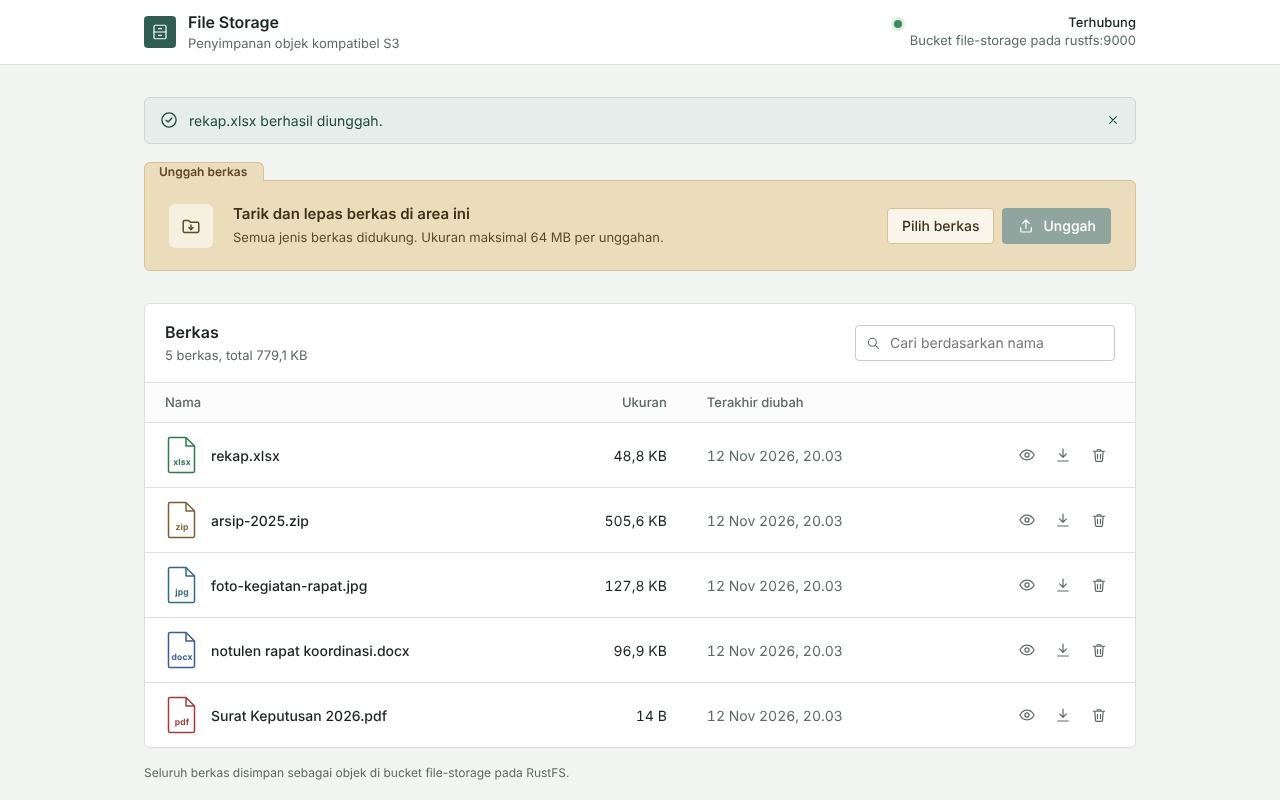
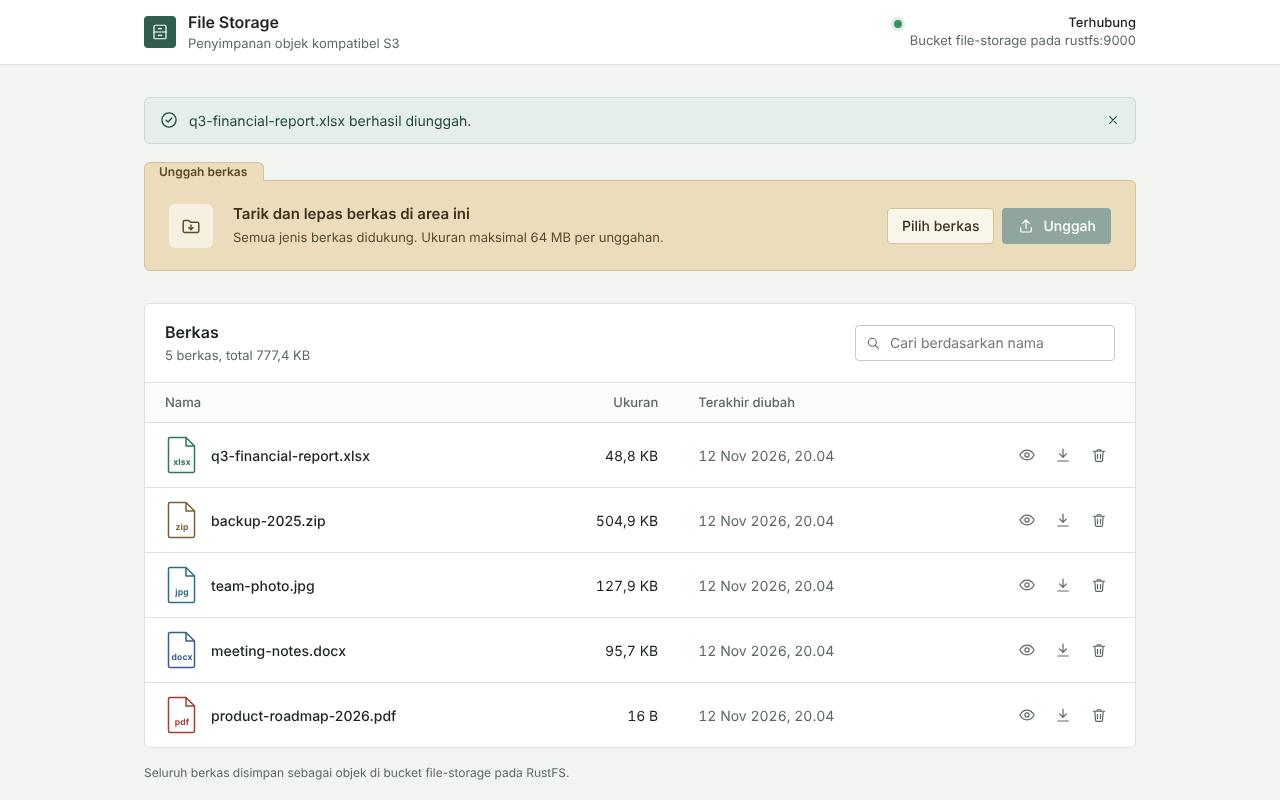
Use file-storage naming across code, styles, compose and tests

diff --git a/web/src/styles.css b/web/src/styles.css
@@ -1,4 +1,4 @@
-/* File Storage: manila-folder upload, archive-green ink, one quiet table. */
+/* File Storage UI: one tabbed upload panel, one quiet file table. */
 :root {
   --page: #F2F4F2;
   --surface: #FFFFFF;
@@ -9,9 +9,9 @@
   --accent: #2F5D50;
   --accent-hover: #244A40;
   --accent-soft: #E6EEEB;
-  --manila: #EBDDBB;
-  --manila-edge: #D6C394;
-  --manila-ink: #5A4A26;
+  --upload-bg: #EBDDBB;
+  --upload-border: #D6C394;
+  --upload-ink: #5A4A26;
   --danger: #A63D32;
   --danger-soft: #F8EBE9;
   --radius-s: 4px;
@@ -58,31 +58,31 @@ main.wrap { padding-top: 32px; padding-bottom: 64px; }
 .notice.ok { background: var(--accent-soft); border-color: #C9DAD4; color: var(--accent-hover); }
 .notice.err { background: var(--danger-soft); border-color: #EBCBC6; color: var(--danger); }
 
-/* Upload folder: the one memorable element */
-.folder { position: relative; margin-top: 18px; margin-bottom: 32px; }
-.folder-tab {
+/* Upload panel: the one prominent element */
+.upload-panel { position: relative; margin-top: 18px; margin-bottom: 32px; }
+.upload-tab {
   position: absolute; top: -18px; left: 0; height: 19px; padding: 0 16px 0 14px;
-  background: var(--manila); border: 1px solid var(--manila-edge); border-bottom: 0;
+  background: var(--upload-bg); border: 1px solid var(--upload-border); border-bottom: 0;
   border-radius: var(--radius-m) var(--radius-m) 0 0;
-  font-size: 12px; font-weight: 600; color: var(--manila-ink); line-height: 18px;
+  font-size: 12px; font-weight: 600; color: var(--upload-ink); line-height: 18px;
 }
-.drop {
+.dropzone {
   display: flex; align-items: center; gap: 20px; flex-wrap: wrap;
-  background: var(--manila); border: 1px solid var(--manila-edge);
+  background: var(--upload-bg); border: 1px solid var(--upload-border);
   border-radius: 0 var(--radius-m) var(--radius-m) var(--radius-m);
   padding: 22px 24px;
   transition: background-color .15s, border-color .15s;
 }
-.drop.is-over { background: #E3D2A8; border-color: var(--manila-ink); }
-.drop-icon { width: 44px; height: 44px; border-radius: var(--radius-m); background: rgba(255,255,255,.55); display: grid; place-items: center; color: var(--manila-ink); }
-.drop-icon .icon { width: 22px; height: 22px; }
-.drop-text { flex: 1 1 260px; color: var(--manila-ink); }
-.drop-text strong { display: block; font-size: 15px; font-weight: 600; color: #3E331A; }
-.drop-text span { font-size: 13px; }
+.dropzone.is-over { background: #E3D2A8; border-color: var(--upload-ink); }
+.dropzone-icon { width: 44px; height: 44px; border-radius: var(--radius-m); background: rgba(255,255,255,.55); display: grid; place-items: center; color: var(--upload-ink); }
+.dropzone-icon .icon { width: 22px; height: 22px; }
+.dropzone-text { flex: 1 1 260px; color: var(--upload-ink); }
+.dropzone-text strong { display: block; font-size: 15px; font-weight: 600; color: #3E331A; }
+.dropzone-text span { font-size: 13px; }
 .progress { height: 4px; margin-top: 10px; border-radius: 2px; background: rgba(90,74,38,.18); overflow: hidden; max-width: 420px; }
 .progress[hidden] { display: none; }
 .progress-bar { height: 100%; width: 0; background: var(--accent); transition: width .15s linear; }
-.drop-actions { display: flex; gap: 8px; align-items: center; }
+.dropzone-actions { display: flex; gap: 8px; align-items: center; }
 .sr-only { position: absolute; width: 1px; height: 1px; overflow: hidden; clip: rect(0 0 0 0); white-space: nowrap; }
 
 /* Buttons */
@@ -95,7 +95,7 @@ main.wrap { padding-top: 32px; padding-bottom: 64px; }
 .btn-primary { background: var(--accent); color: #fff; }
 .btn-primary:hover { background: var(--accent-hover); }
 .btn-primary:disabled { background: #8FA59E; cursor: not-allowed; }
-.btn-plain { background: rgba(255,255,255,.7); border-color: var(--manila-edge); color: #3E331A; }
+.btn-plain { background: rgba(255,255,255,.7); border-color: var(--upload-border); color: #3E331A; }
 .btn-plain:hover { background: #fff; }
 .btn-ghost { background: var(--surface); border-color: var(--line-strong); color: var(--ink); }
 .btn-ghost:hover { background: var(--page); }
@@ -103,10 +103,10 @@ main.wrap { padding-top: 32px; padding-bottom: 64px; }
 .btn-danger:hover { background: #8C3229; }
 
 /* Documents */
-.docs { background: var(--surface); border: 1px solid var(--line); border-radius: var(--radius-m); }
-.docs-head { display: flex; align-items: center; justify-content: space-between; gap: 16px; flex-wrap: wrap; padding: 16px 20px; border-bottom: 1px solid var(--line); }
-.docs-head h2 { margin: 0; font-size: 16px; font-weight: 600; }
-.docs-head p { margin: 2px 0 0; font-size: 13px; color: var(--muted); }
+.file-list { background: var(--surface); border: 1px solid var(--line); border-radius: var(--radius-m); }
+.file-list-head { display: flex; align-items: center; justify-content: space-between; gap: 16px; flex-wrap: wrap; padding: 16px 20px; border-bottom: 1px solid var(--line); }
+.file-list-head h2 { margin: 0; font-size: 16px; font-weight: 600; }
+.file-list-head p { margin: 2px 0 0; font-size: 13px; color: var(--muted); }
 .search { position: relative; }
 .search .icon { position: absolute; left: 10px; top: 50%; transform: translateY(-50%); width: 16px; height: 16px; color: var(--muted); }
 .search input {
@@ -166,7 +166,7 @@ footer { font-size: 12px; color: var(--muted); margin-top: 16px; }
   .wrap { padding: 0 16px; }
   .conn { display: none; }
   .search, .search input { width: 100%; }
-  .docs-head > div:first-child { width: 100%; }
+  .file-list-head > div:first-child { width: 100%; }
   .col-when, .when { display: none; }
   .name small { display: block; }
   th, td { padding-left: 14px; padding-right: 14px; }

diff --git a/web/src/ui/fileTable.ts b/web/src/ui/fileTable.ts
@@ -1,7 +1,7 @@
 import { fileUrl } from "../api";
 import { h } from "../dom";
 import { extensionOf, formatDate, formatSize, kindOf } from "../format";
-import { docSheet, icon } from "../icons";
+import { fileSheet, icon } from "../icons";
 import type { FileList, StoredFile } from "../types";
 
 interface FileTableOptions {
@@ -25,12 +25,12 @@ export function createFileTable(opts: FileTableOptions): FileTable {
     icon("search"),
     searchInput,
   );
-  const body = h("div", { class: "docs-body" });
+  const body = h("div", { class: "file-list-body" });
 
   const el = h(
     "section",
-    { class: "docs", "aria-labelledby": "docs-title" },
-    h("div", { class: "docs-head" }, h("div", {}, h("h2", { id: "docs-title" }, "Berkas"), summary), search),
+    { class: "file-list", "aria-labelledby": "file-list-title" },
+    h("div", { class: "file-list-head" }, h("div", {}, h("h2", { id: "file-list-title" }, "Berkas"), summary), search),
     body,
   );
 
@@ -49,7 +49,7 @@ export function createFileTable(opts: FileTableOptions): FileTable {
   };
   searchInput.addEventListener("input", applySearch);
 
-  const emptyState = (iconName: "cabinet" | "search" | "alert", heading: string, text: string, ...extra: Node[]) =>
+  const emptyState = (iconName: "storage" | "search" | "alert", heading: string, text: string, ...extra: Node[]) =>
     h("div", { class: "empty" }, icon(iconName), h("strong", {}, heading), h("p", {}, text), ...extra);
 
   const row = (f: StoredFile) => {
@@ -66,7 +66,7 @@ export function createFileTable(opts: FileTableOptions): FileTable {
         h(
           "div",
           { class: "name" },
-          h("span", { class: `kind kind-${kindOf(ext)}`, "aria-hidden": "true" }, docSheet(), h("b", {}, ext || "file")),
+          h("span", { class: `kind kind-${kindOf(ext)}`, "aria-hidden": "true" }, fileSheet(), h("b", {}, ext || "file")),
           h(
             "div",
             {},
@@ -112,7 +112,7 @@ export function createFileTable(opts: FileTableOptions): FileTable {
       if (list.files.length === 0) {
         rows = [];
         noMatch = null;
-        body.replaceChildren(emptyState("cabinet", "Belum ada berkas", "Berkas yang Anda unggah akan tampil di sini."));
+        body.replaceChildren(emptyState("storage", "Belum ada berkas", "Berkas yang Anda unggah akan tampil di sini."));
         return;
       }
       rows = list.files.map(row);

diff --git a/web/src/ui/uploader.ts b/web/src/ui/uploader.ts
@@ -25,19 +25,19 @@ export function createUploader(opts: UploaderOptions): HTMLElement {
   const submit = h("button", { class: "btn btn-primary", type: "submit", disabled: true }, icon("upload"), h("span", {}, "Unggah"));
   const label = submit.querySelector("span")!;
 
-  const drop = h(
+  const dropzone = h(
     "div",
-    { class: "drop" },
-    h("div", { class: "drop-icon" }, icon("folderIn")),
-    h("div", { class: "drop-text" }, title, hint, progress),
-    h("div", { class: "drop-actions" }, h("label", { class: "btn btn-plain", for: "files" }, "Pilih berkas"), input, submit),
+    { class: "dropzone" },
+    h("div", { class: "dropzone-icon" }, icon("uploadTray")),
+    h("div", { class: "dropzone-text" }, title, hint, progress),
+    h("div", { class: "dropzone-actions" }, h("label", { class: "btn btn-plain", for: "files" }, "Pilih berkas"), input, submit),
   );
 
   const form = h(
     "form",
-    { class: "folder", "aria-label": "Unggah berkas" },
-    h("div", { class: "folder-tab", "aria-hidden": "true" }, "Unggah berkas"),
-    drop,
+    { class: "upload-panel", "aria-label": "Unggah berkas" },
+    h("div", { class: "upload-tab", "aria-hidden": "true" }, "Unggah berkas"),
+    dropzone,
   );
 
   const total = () => selected.reduce((sum, f) => sum + f.size, 0);
@@ -67,18 +67,18 @@ export function createUploader(opts: UploaderOptions): HTMLElement {
   input.addEventListener("change", () => select(input.files));
 
   for (const type of ["dragenter", "dragover"]) {
-    drop.addEventListener(type, (e) => {
+    dropzone.addEventListener(type, (e) => {
       e.preventDefault();
-      drop.classList.add("is-over");
+      dropzone.classList.add("is-over");
     });
   }
   for (const type of ["dragleave", "drop"]) {
-    drop.addEventListener(type, (e) => {
+    dropzone.addEventListener(type, (e) => {
       e.preventDefault();
-      drop.classList.remove("is-over");
+      dropzone.classList.remove("is-over");
     });
   }
-  drop.addEventListener("drop", (e) => select((e as DragEvent).dataTransfer?.files ?? null));
+  dropzone.addEventListener("drop", (e) => select((e as DragEvent).dataTransfer?.files ?? null));
 
   form.addEventListener("submit", async (e) => {
     e.preventDefault();

diff --git a/web/src/icons.ts b/web/src/icons.ts
@@ -1,8 +1,8 @@
 // Custom stroke icons drawn on a 24px grid, 1.6px stroke.
 const paths = {
-  cabinet: '<rect x="4" y="3" width="16" height="18" rx="1.5"/><path d="M4 12h16M10 7.5h4M10 16.5h4"/>',
+  storage: '<rect x="4" y="3" width="16" height="18" rx="1.5"/><path d="M4 12h16M10 7.5h4M10 16.5h4"/>',
   upload: '<path d="M12 15V4M7.5 8.5 12 4l4.5 4.5"/><path d="M5 14v4.5A1.5 1.5 0 0 0 6.5 20h11a1.5 1.5 0 0 0 1.5-1.5V14"/>',
-  folderIn:
+  uploadTray:
     '<path d="M3.5 7.5A1.5 1.5 0 0 1 5 6h4.5l2 2H19a1.5 1.5 0 0 1 1.5 1.5v8A1.5 1.5 0 0 1 19 19H5a1.5 1.5 0 0 1-1.5-1.5z"/><path d="M12 11v5M9.75 13.75 12 16l2.25-2.25"/>',
   search: '<circle cx="11" cy="11" r="6"/><path d="m20 20-4.5-4.5"/>',
   open: '<path d="M2.5 12S6 5.5 12 5.5 21.5 12 21.5 12 18 18.5 12 18.5 2.5 12 2.5 12Z"/><circle cx="12" cy="12" r="2.75"/>',
@@ -26,8 +26,8 @@ export function icon(name: IconName, className = "icon"): SVGSVGElement {
   return svg;
 }
 
-/** Document sheet with a folded corner; the extension label sits on top. */
-export function docSheet(): SVGSVGElement {
+/** File sheet with a folded corner; the extension label sits on top. */
+export function fileSheet(): SVGSVGElement {
   const svg = document.createElementNS("http://www.w3.org/2000/svg", "svg");
   svg.setAttribute("viewBox", "0 0 34 40");
   svg.setAttribute("aria-hidden", "true");

diff --git a/web/src/main.ts b/web/src/main.ts
@@ -67,7 +67,7 @@ async function bootstrap(root: HTMLElement) {
         h(
           "div",
           { class: "brand" },
-          h("div", { class: "brand-mark" }, icon("cabinet")),
+          h("div", { class: "brand-mark" }, icon("storage")),
           h("div", {}, h("h1", {}, "File Storage"), h("p", {}, "Penyimpanan objek kompatibel S3")),
         ),
         connection.el,

diff --git a/internal/httpapi/handlers_test.go b/internal/httpapi/handlers_test.go
@@ -93,7 +93,7 @@ func TestUploadListDownloadDelete(t *testing.T) {
 	srv := newServer(newMemStore(), 1<<20)
 	defer srv.Close()
 
-	resp := uploadReq(t, srv.URL, map[string]string{"laporan akhir.pdf": "isi laporan"})
+	resp := uploadReq(t, srv.URL, map[string]string{"annual report.pdf": "report body"})
 	if resp.StatusCode != http.StatusCreated {
 		t.Fatalf("upload status = %d", resp.StatusCode)
 	}
@@ -104,20 +104,20 @@ func TestUploadListDownloadDelete(t *testing.T) {
 		TotalSize int64            `json:"totalSize"`
 	}
 	json.NewDecoder(resp.Body).Decode(&list)
-	if len(list.Files) != 1 || list.Files[0].Key != "laporan akhir.pdf" || list.TotalSize != 11 {
+	if len(list.Files) != 1 || list.Files[0].Key != "annual report.pdf" || list.TotalSize != 11 {
 		t.Fatalf("unexpected list: %+v", list)
 	}
 
-	resp, _ = http.Get(srv.URL + "/api/files/laporan%20akhir.pdf?download")
+	resp, _ = http.Get(srv.URL + "/api/files/annual%20report.pdf?download")
 	b, _ := io.ReadAll(resp.Body)
-	if resp.StatusCode != http.StatusOK || string(b) != "isi laporan" {
+	if resp.StatusCode != http.StatusOK || string(b) != "report body" {
 		t.Fatalf("download = %d %q", resp.StatusCode, b)
 	}
-	if cd := resp.Header.Get("Content-Disposition"); cd != "attachment; filename*=UTF-8''laporan%20akhir.pdf" {
+	if cd := resp.Header.Get("Content-Disposition"); cd != "attachment; filename*=UTF-8''annual%20report.pdf" {
 		t.Errorf("Content-Disposition = %q", cd)
 	}
 
-	req, _ := http.NewRequest(http.MethodDelete, srv.URL+"/api/files/laporan%20akhir.pdf", nil)
+	req, _ := http.NewRequest(http.MethodDelete, srv.URL+"/api/files/annual%20report.pdf", nil)
 	resp, _ = http.DefaultClient.Do(req)
 	if resp.StatusCode != http.StatusNoContent {
 		t.Fatalf("delete status = %d", resp.StatusCode)
@@ -131,7 +131,7 @@ func TestUploadListDownloadDelete(t *testing.T) {
 func TestUploadRejectsOversizedBody(t *testing.T) {
 	srv := newServer(newMemStore(), 1024)
 	defer srv.Close()
-	resp := uploadReq(t, srv.URL, map[string]string{"besar.bin": string(make([]byte, 4096))})
+	resp := uploadReq(t, srv.URL, map[string]string{"large.bin": string(make([]byte, 4096))})
 	if resp.StatusCode != http.StatusRequestEntityTooLarge {
 		t.Fatalf("status = %d, want 413", resp.StatusCode)
 	}
@@ -148,9 +148,9 @@ func TestUploadRequiresFiles(t *testing.T) {
 
 func TestCleanKey(t *testing.T) {
 	cases := map[string]string{
-		"../../etc/passwd":      "passwd",
-		`C:\Users\a\surat.docx`: "surat.docx",
-		"  spasi.txt ":          "spasi.txt",
+		"../../etc/passwd":         "passwd",
+		`C:\Users\a\contract.docx`: "contract.docx",
+		"  notes.txt ":             "notes.txt",
 	}
 	for in, want := range cases {
 		if got, ok := cleanKey(in); !ok || got != want {

diff --git a/internal/config/config_test.go b/internal/config/config_test.go
@@ -24,7 +24,7 @@ func TestLoadRequiresS3Settings(t *testing.T) {
 func TestLoadAppliesOptionalDefaults(t *testing.T) {
 	cfg, err := load(env(map[string]string{
 		"S3_ENDPOINT":   "http://rustfs:9000",
-		"S3_BUCKET":     "docs",
+		"S3_BUCKET":     "files",
 		"S3_ACCESS_KEY": "a",
 		"S3_SECRET_KEY": "b",
 	}))

diff --git a/README.md b/README.md
@@ -107,9 +107,9 @@ docker pull amazon/aws-cli:latest
 Contoh:
 
 ```bash
-curl -F "files=@laporan.pdf" localhost:8000/api/files
+curl -F "files=@example.pdf" localhost:8000/api/files
 curl localhost:8000/api/files
-curl -X DELETE localhost:8000/api/files/laporan.pdf
+curl -X DELETE localhost:8000/api/files/example.pdf
 ```
 
 Error selalu berbentuk `{"error": {"code": "...", "message": "..."}}`.
@@ -127,7 +127,7 @@ docker run --rm --network container:file_storage_rustfs \
 
 ```bash
 # backend (butuh RustFS atau S3 lain yang berjalan)
-S3_ENDPOINT=http://localhost:9000 S3_BUCKET=office-documents \
+S3_ENDPOINT=http://localhost:9000 S3_BUCKET=file-storage \
 S3_ACCESS_KEY=... S3_SECRET_KEY=... go run ./cmd/server
 
 # frontend dengan hot reload, proxy /api ke :8000
